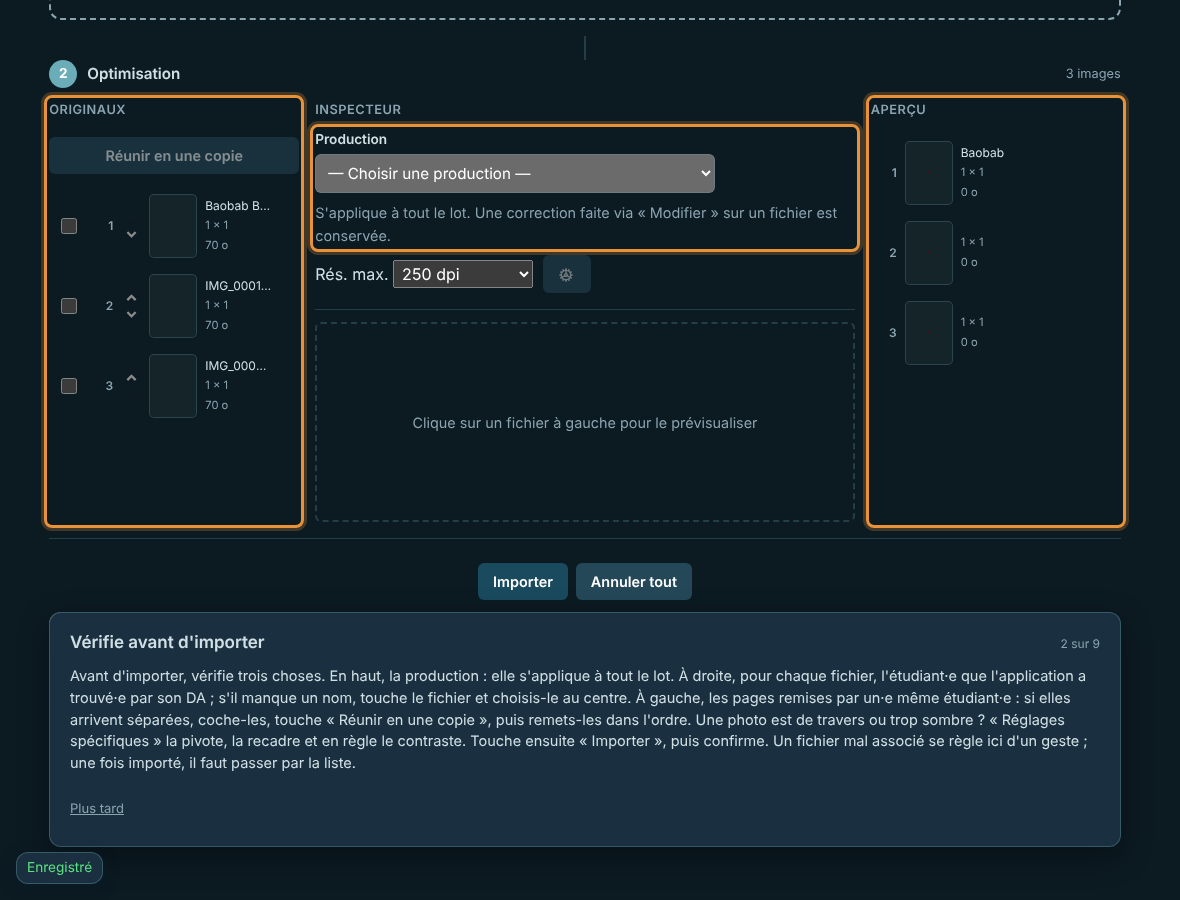
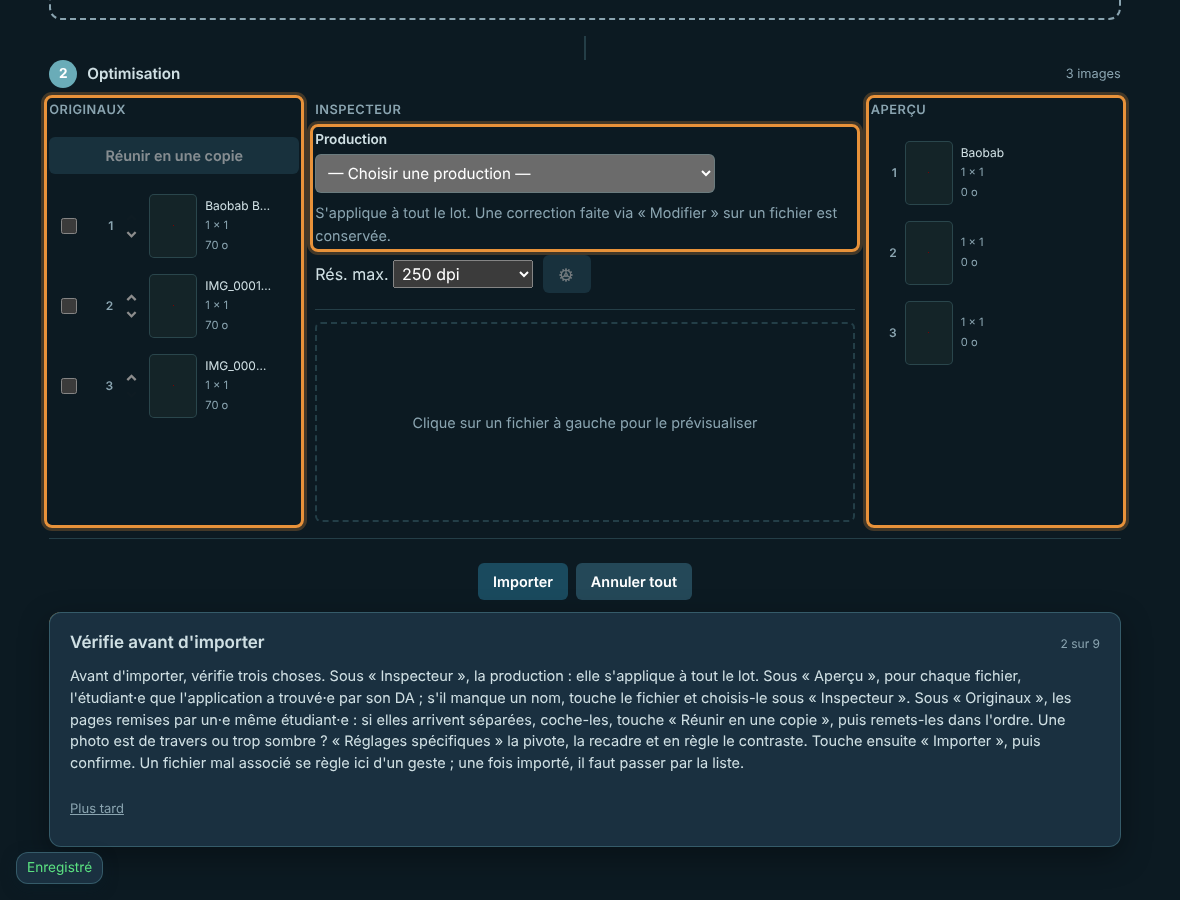
feat(parcours) : quatrième parcours, étape 2 (9 nov., 17 h 58) — les zones nommées par leur titre, à toutes les largeurs ; une espace insécable à l'intérieur des guillemets, dans le moteur, pour toutes les bulles ; les indications de lieu des parcours 3 à 5 mesurées à 820 px (rapport) ; captures p4-
Claude-Session: https://claude.ai/code/session_01ByBG6Ld1FqQz68ho7CDESp

Changed region(s): [[0.061, 0.7467, 0.9153, 0.8711]]

diff --git a/index.html b/index.html
@@ -11787,12 +11787,12 @@
     <script src="js/accompagnement-contenu-terme.js?v=20261107b"></script> <!-- Les palettes, une même famille § 4 (2 nov.) : un seul verrou, « Verrouiller » / « Déverrouiller », le cadenas de l’en-tête retiré · Lot 2 des seuils (30 oct.) : le niveau RàI · #1152, lot 5 (29 oct.) : le glossaire : Exploration des pratiques, cours, groupe-cours, production ; « étudiant·es » · #1152, lot 3, retouche (28 oct.) : « en haut de l’écran », SRPNF validé · #1152, lot 3 (28 oct.) : le seul glossaire, le statique y est versé, les chemins aux libellés de config.js · #1120, lot 2 (20 oct.) : « Barème » et « Tranche » au lexique, A3 et A4 · L’aide d’« Apporter mon matériel » (19 oct.) : six termes des étiquettes -->
     <!-- Lot « Les deux parcours » (8 nov. 2026) : le moteur des parcours, le panneau « Assistance », puis les parcours dans l'ordre du panneau -->
     <link rel="stylesheet" href="css/parcours.css?v=20261109w"> <!-- Parcours 4 (9 nov., 15 h 55) : la place sous les colonnes de l’import -->
-    <script src="js/parcours-moteur.js?v=20261109p"></script>
+    <script src="js/parcours-moteur.js?v=20261109q"></script> <!-- 9 nov., 17 h 58 : une espace insécable à l’intérieur des guillemets, dans toutes les bulles -->
     <script src="js/assistance.js?v=20261109q"></script>
     <script src="js/parcours-decouvrir.js?v=20261109p"></script>
     <script src="js/parcours-classe.js?v=20261109p"></script>
     <script src="js/parcours-evaluer.js?v=20261109f"></script> <!-- Parcours 3 (9 nov.) : « Évaluer une première production » ; le menu « Cartouche » amené dans la vue (17 h 52) ; la cartouche nommée par la production (15 h 55) ; la ligne du panneau, l’échelle à la fiche (13 h 37) -->
-    <script src="js/parcours-recevoir.js?v=20261109e"></script> <!-- Parcours 4 (9 nov.) : « Recevoir les productions, rendre tes rétroactions » ; deux textes et la bulle sous les colonnes (15 h 55) ; la reprise des étapes 4 à 7, l’export téléchargé (relecture neuve) -->
+    <script src="js/parcours-recevoir.js?v=20261109f"></script> <!-- Parcours 4 (9 nov.) : « Recevoir les productions, rendre tes rétroactions » ; l’étape 2 nomme les zones par leur titre (17 h 58) ; deux textes et la bulle sous les colonnes (15 h 55) ; la reprise des étapes 4 à 7, l’export téléchargé (relecture neuve) -->
     <script src="js/guides-pedagogiques.js?v=20261101a"></script> <!-- Consigne du 31 oct., partie F : même en-tête aux trois palettes, ↔ et ↕ en texte sur l’iPad · Lot 2 des seuils (30 oct.) : le niveau RàI · #1152, lot 5 (29 oct.) : le guide ACP cite « Suivi du groupe » ; « étudiant·e » · Le guide SOLO (27 oct.) : « PS ↔ Préstructurel », le non recevable sorti de la correspondance · Module unifié des guides pédagogiques : SOLO, ACP, RàI (plan du 23 mai, contenu validé 4 juin 2026) -->
     <script src="js/comparateur-pratiques.js?v=20261107b"></script> <!-- #1152, retouche du lot 5 (29 oct.) : « L’Exploration des pratiques » dans trois phrases · #1152, lot 5 (29 oct.) : le titre « Exploration des pratiques » · #1075, point 1 (22 oct.) : le DA affiché en anonymisation, libellé et CSV · Comparateur de pratiques (lot C1-a : squelette + garde démo, 6 juin 2026) -->
     <script src="js/export-resultats-finaux.js?v=20261029a"></script> <!-- #333 Lot 2 : export CSV des résultats finaux (module dédié, consomme simulerIndices) -->

diff --git a/tests/integration/parcours-4-recevoir-et-rendre-2026-11-09.spec.js b/tests/integration/parcours-4-recevoir-et-rendre-2026-11-09.spec.js
@@ -66,6 +66,19 @@ async function bulleSousLesColonnes(page, contexte) {
     expect(haut, contexte + ' : la bulle sous les colonnes et « Importer »').toBeGreaterThanOrEqual(basColonnes);
 }
 
+ /**
+ * Étape 2 (Grégoire, 9 nov., 17 h 58) : la bulle nomme les zones par leur titre ; mesuré, les trois titres s'écrivent
+ * « Originaux », « Inspecteur » et « Aperçu » (en capitales par le style). Et un guillemet ne passe jamais seul à la ligne :
+ * le moteur pose une espace insécable à l'intérieur des guillemets (Cowork, 17 h 58).
+ */
+async function zonesNommeesParLeurTitre(page) {
+    expect(await page.locator('.pipeline-3col-grid .pipeline-col-titre').allTextContents()).toEqual(['Originaux', 'Inspecteur', 'Aperçu']);
+    const t = await bulle(page).locator('.parcours-bulle-texte').textContent();
+    expect(t, 'aucune espace ordinaire à l’intérieur des guillemets').not.toMatch(/« | »/);
+    expect(t).toContain('Sous «\u00a0Inspecteur\u00a0», la production');
+    expect(t).toContain('«\u00a0Importer\u00a0»');
+}
+
 const PDF_LEA = 'Baobab_Basile_2390002_Journal de lecture 1__Remis_le_2026-11-03_10h00m00s.png';
 const n = (page, k, total, titre, opts) => attendreEtape(page, k, total, titre, opts);
 const ligneDe = (page, valeur) => page.locator('#evaluations-liste select.eval-actions-select', { has: page.locator(`option[value="${valeur}"]`) });
@@ -116,6 +129,7 @@ test('« Recevoir les productions, rendre tes rétroactions », la voie des fich
     await contourSur(page, '.pipeline-col-confirmes', 'parcours-contour-extra-0');
     await contourSur(page, '.pipeline-col-originaux', 'parcours-contour-extra-1');
     await bulleSousLesColonnes(page, 'étape 2, 1180 px');
+    await zonesNommeesParLeurTitre(page);
     await capture(page, DOSSIER, `p4-2-${cap}`);
     await page.selectOption('.pipeline-production-selecteur select', pid);
     // Deux photos SANS DA dans leur nom (question 9) : cochées, « Réunir en une copie », puis l'étudiante choisie.
@@ -301,6 +315,7 @@ test('« Recevoir les productions, rendre tes rétroactions », étape 2 à 820 
     await n(page, 2, 9, "Vérifie avant d'importer", { focus: false });
     await contourSur(page, '.pipeline-production-selecteur');
     await bulleSousLesColonnes(page, 'étape 2, 820 px');
+    await zonesNommeesParLeurTitre(page);
     await capture(page, DOSSIER, 'p4-2-820-sombre');
 });
 

diff --git a/tests/unit/sentinelle-parcours-recevoir-2026-11-09.test.js b/tests/unit/sentinelle-parcours-recevoir-2026-11-09.test.js
@@ -32,8 +32,11 @@ function texteDe(ligne) { const m = ligne && ligne.match(/Texte : « (.*?) » ?(
 
 // [étape, phrase de la consigne, phrase validée le 9 nov.]
 const CORRECTIONS = [
-    // Le 9 nov., 15 h 55 (questions 2 et 3 du rapport) : où choisir un nom manquant ; l'emoji à la place de l'image.
-    [2, "s'il manque un nom, choisis-le.", "s'il manque un nom, touche le fichier et choisis-le au centre."],
+    // Le 9 nov., 17 h 58 (Grégoire, sur les captures à 820 px, où les colonnes s'empilent) : les zones nommées par leur
+    // titre, à toutes les largeurs. Remplace la correction de 15 h 55 (« touche le fichier et choisis-le au centre »).
+    [2, "Avant d'importer, vérifie trois choses. En haut, la production : elle s'applique à tout le lot. À droite, pour chaque fichier, l'étudiant·e que l'application a trouvé·e par son DA ; s'il manque un nom, choisis-le. À gauche, les pages remises par un·e même étudiant·e :",
+        "Avant d'importer, vérifie trois choses. Sous « Inspecteur », la production : elle s'applique à tout le lot. Sous « Aperçu », pour chaque fichier, l'étudiant·e que l'application a trouvé·e par son DA ; s'il manque un nom, touche le fichier et choisis-le sous « Inspecteur ». Sous « Originaux », les pages remises par un·e même étudiant·e :"],
+    // Le 9 nov., 15 h 55 (question 3 du rapport) : l'emoji à la place de l'image.
     [4, 'réécris les autres, change leur image ou crée tes propres tampons,', 'réécris les autres, change leur image (ou mets un emoji à sa place), ou crée tes propres tampons,'],
     [5, 'Quand tu as fini, touche « Actions › Évaluer », au-dessus de la production.',
         'Quand tu as fini, touche « Annoter ▾ », au-dessus de la production, et choisis « Évaluer ».'],

diff --git a/js/parcours-recevoir.js b/js/parcours-recevoir.js
@@ -366,7 +366,7 @@
 
     var ETAPE_2 = {
         titre: "Vérifie avant d'importer",
-        texte: "Avant d'importer, vérifie trois choses. En haut, la production : elle s'applique à tout le lot. À droite, pour chaque fichier, l'étudiant·e que l'application a trouvé·e par son DA ; s'il manque un nom, touche le fichier et choisis-le au centre. À gauche, les pages remises par un·e même étudiant·e : si elles arrivent séparées, coche-les, touche « Réunir en une copie », puis remets-les dans l'ordre. Une photo est de travers ou trop sombre ? « Réglages spécifiques » la pivote, la recadre et en règle le contraste. Touche ensuite « Importer », puis confirme. Un fichier mal associé se règle ici d'un geste ; une fois importé, il faut passer par la liste.",
+        texte: "Avant d'importer, vérifie trois choses. Sous « Inspecteur », la production : elle s'applique à tout le lot. Sous « Aperçu », pour chaque fichier, l'étudiant·e que l'application a trouvé·e par son DA ; s'il manque un nom, touche le fichier et choisis-le sous « Inspecteur ». Sous « Originaux », les pages remises par un·e même étudiant·e : si elles arrivent séparées, coche-les, touche « Réunir en une copie », puis remets-les dans l'ordre. Une photo est de travers ou trop sombre ? « Réglages spécifiques » la pivote, la recadre et en règle le contraste. Touche ensuite « Importer », puis confirme. Un fichier mal associé se règle ici d'un geste ; une fois importé, il faut passer par la liste.",
         voile: 'aucun',
         avant: async function () {
             aller('evaluations', 'importer');

diff --git a/js/parcours-moteur.js b/js/parcours-moteur.js
@@ -151,6 +151,15 @@
         return etat ? etat.def.etapes[etat.i] : null;
     }
 
+    /**
+     * À l'intérieur des guillemets, une espace insécable : un guillemet ne passe jamais seul à la ligne (décision de
+     * Cowork, 9 nov. 2026, 17 h 58 ; mesuré à 820 px : « Importer » se coupait avant son guillemet fermant). Pour toutes
+     * les bulles, au rendu : les textes validés, et les sentinelles qui les lisent, gardent leurs espaces ordinaires.
+     */
+    function typographier(t) {
+        return String(t == null ? '' : t).replace(/« /g, '«\u00a0').replace(/ »/g, '\u00a0»');
+    }
+
     function rendreBulle() {
         var etape = etapeCourante();
         var b = etat.elements.bulle;
@@ -162,7 +171,7 @@
         var h = document.createElement('h2');
         h.className = 'parcours-bulle-titre';
         h.id = 'parcours-bulle-titre';
-        h.textContent = etape.titre;
+        h.textContent = typographier(etape.titre);
         var rang = document.createElement('span');
         rang.className = 'parcours-bulle-rang';
         rang.textContent = (etat.i + 1) + ' sur ' + total;
@@ -172,13 +181,13 @@
 
         var p = document.createElement('p');
         p.className = 'parcours-bulle-texte';
-        p.textContent = etape.texte;
+        p.textContent = typographier(etape.texte);
         b.appendChild(p);
 
         if (etape.geste) {
             var g = document.createElement('p');
             g.className = 'parcours-bulle-geste';
-            g.textContent = etape.geste;
+            g.textContent = typographier(etape.geste);
             b.appendChild(g);
         }
 

diff --git a/plans de travail/RAPPORT-2026-11-09-parcours-4-recevoir-et-rendre.md b/plans de travail/RAPPORT-2026-11-09-parcours-4-recevoir-et-rendre.md
@@ -11,6 +11,42 @@ les synthèses PDF des copies sur papier » est sur `main` (1.237.0).
 
 ### Ce qui est fait (en gestes d'utilisateur)
 
+- **Étape 2, les zones nommées par leur titre (Grégoire, 9 nov., 17 h 58)** : à 820 px, les trois colonnes s'empilent,
+  et « en haut », « à droite », « à gauche », « au centre » n'étaient plus vrais. Le début de la bulle est posé mot
+  pour mot : « Avant d'importer, vérifie trois choses. Sous « Inspecteur », la production : elle s'applique à tout le
+  lot. Sous « Aperçu », pour chaque fichier, l'étudiant·e que l'application a trouvé·e par son DA ; s'il manque un nom,
+  touche le fichier et choisis-le sous « Inspecteur ». Sous « Originaux », les pages remises par un·e même
+  étudiant·e : » ; la suite ne change pas. La sentinelle l'exige (la correction de 15 h 55 sur « au centre » est
+  remplacée). **Mesuré** : les trois titres s'écrivent à l'écran « Originaux », « Inspecteur » et « Aperçu »
+  (`js/travaux-ui.js`, en capitales par le style), les mots de la bulle ; un essai le vérifie à 1180 et à 820 px.
+- **Un guillemet ne passe plus seul à la ligne** (Cowork, 17 h 58) : **dans le moteur, une fois pour toutes les
+  bulles** (`js/parcours-moteur.js`, `typographier`, appelée par `rendreBulle` sur le titre, le texte et le geste).
+  Au rendu, l'espace à l'intérieur des guillemets devient insécable ; les textes validés et les sentinelles qui les
+  lisent gardent leurs espaces ordinaires. Essai : aucune espace ordinaire à l'intérieur des guillemets dans la bulle,
+  et « « Importer » » d'un seul tenant, à 1180 et à 820 px ; break-test, la fonction neutralisée → rouge. ⚠ Le lot
+  « Les bulles en pages » touche aussi `rendreBulle` : à la fusion, garder les trois appels à `typographier`.
+- Captures `p4-2-1180-sombre` et `p4-2-820-sombre` refaites.
+- **Les autres indications de lieu des parcours 3, 4 et 5**, relevées dans les textes validés et **mesurées à 820 ×
+  1180** quand elles dépendent de la mise en page (non changées : Grégoire tranchera une à une) :
+  | Parcours, étape | La phrase | À 820 px |
+  |---|---|---|
+  | 3, étape 6 | « Choisis-la dans le menu en haut de la page » | **vraie** (mesuré : le menu est dans la rangée du haut de « Pratiques », à côté de « Consulter la bibliothèque ») |
+  | 3, étape 2 | « retrouveront en tête de leur synthèse de rétroaction » | vraie (le PDF de la synthèse, pas l'écran) |
+  | 4, étape 5 | « touche « Annoter ▾ », au-dessus de la production » | **vraie** (mesuré : le bouton de 16 à 50 px, la production à partir de 55 px) |
+  | 4, étape 7 | « le cadenas « Verrouiller », en haut de « Paramètres » » | **vraie** (mesuré : juste sous le titre de la palette « Paramètres ») |
+  | 5, étape 2 | « depuis l'un des petits cercles au bord de la compétence » | vraie (dans le bloc, à toute largeur) |
+  | 5, étapes 2 à 6 | « touche « … » dans la frise, au-dessus de la carte » | **vraie** (mesuré : la frise de 317 à 355 px, la carte à partir de 355 px) |
+  | 5, étape 3 | « Dans son en-tête, choisis sa semaine » | vraie (dans le bloc) |
+  | 5, étape 4 | « Une pastille « ! » apparaît à côté » | vraie (à côté de l'objectif, dans le bloc) |
+  | 5, étape 6 et sa variante | « sous ton activité », « Glisse-la sous l'activité » | vraie (l'ordre des blocs dans la leçon) |
+  | 5, étape 3 | « la date peut tomber à côté » | sans objet (une locution, pas un lieu) |
+
+  Hors des bulles, un texte de l'application dit « Clique sur un fichier à gauche pour le prévisualiser » (l'Inspecteur
+  de l'import) : à 820 px, les fichiers sont au-dessus. Vu sur la capture `p4-2-820-sombre` ; non touché (hors du lot).
+- **Les bancs voisins avec le moteur changé** (`parcours-3-evaluer`, `parcours-1-et-2`, `parcours-2-ma-classe`) :
+  12 sur 13. Le rouge (« panneau : titre, phrase… ») l'est aussi sans ces changements : mesuré, sa mesure tombe pendant
+  l'animation d'ouverture du panneau et rougit au hasard sur la largeur (430,00006 ou 429,99994) ou sur le bord droit
+  (−228 px), avec comme sans mes changements.
 - Le panneau « Assistance » compte quatre parcours. « Recevoir les productions, rendre tes rétroactions » y est
   quatrième, avec sa ligne validée, son état et son bouton.
 - **La condition d'entrée** (ta question 7) : une production du groupe-cours actif qui nomme sa grille, son échelle et
